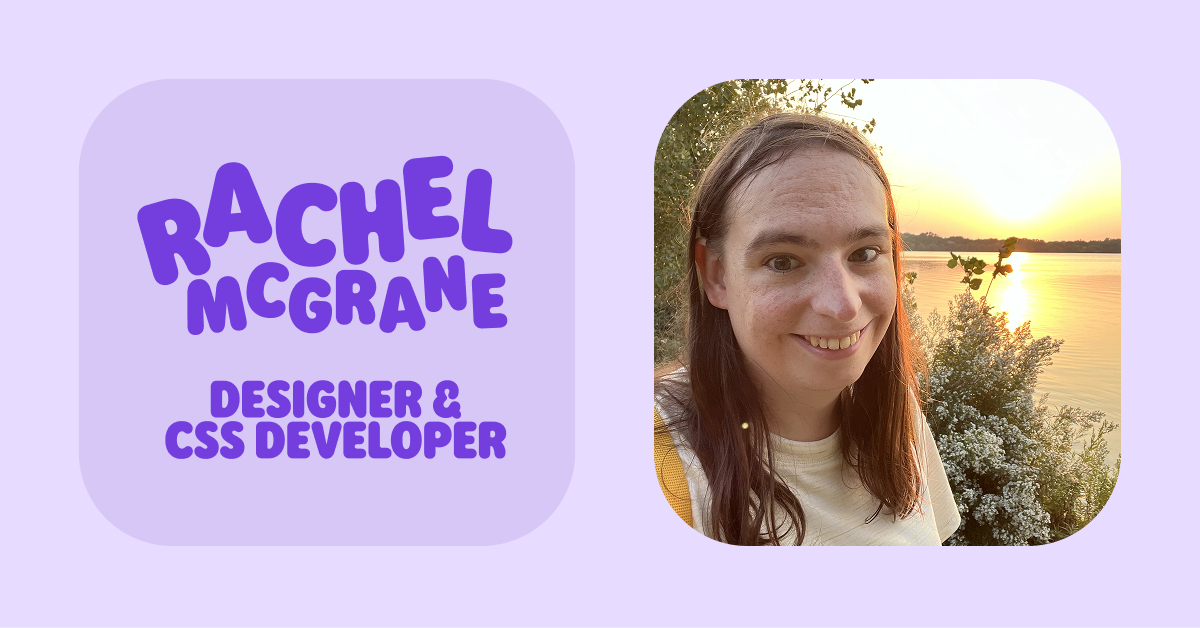
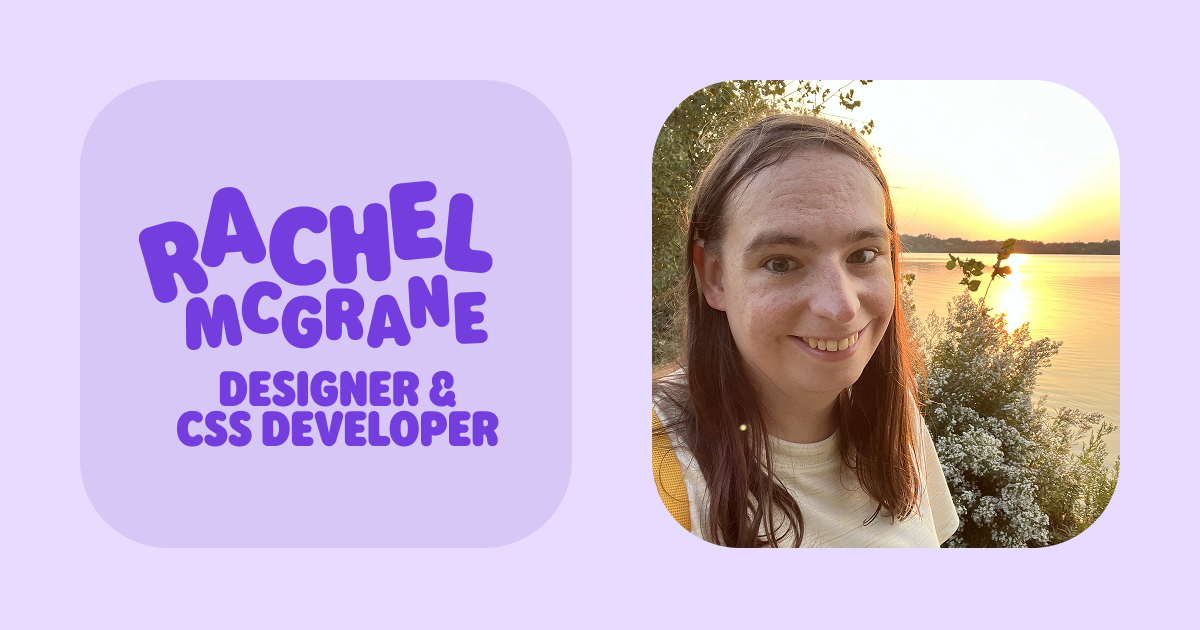
Updated Open Graph image and meta tags

diff --git a/_layouts/default.html b/_layouts/default.html
@@ -13,6 +13,11 @@
     <link rel="icon" href="{{ '/assets/images/favicon.png' | relative_url }}" />
     <meta name="viewport" content="width=device-width, initial-scale=1">
     <meta property="og:image" content="{{ '/assets/images/og-image.png' | relative_url }}" />
+    <meta property="og:title" content="Rachel McGrane" />
+    <meta name="description" content="I'm Rachel! I'm a designer and CSS developer from Pittsburgh, PA. I have experience in designing interfaces as well as websites and marketing materials." />
+    <meta name="og:description" content="I'm Rachel! I'm a designer and CSS developer from Pittsburgh, PA. I have experience in designing interfaces as well as websites and marketing materials." />
+    <meta name="twitter:card" content="summary_large_image" />
+    <meta name="twitter:description" content="I'm Rachel! I'm a designer and CSS developer from Pittsburgh, PA. I have experience in designing interfaces as well as websites and marketing materials." />
   </head>
   <body>
     <div class="container">
